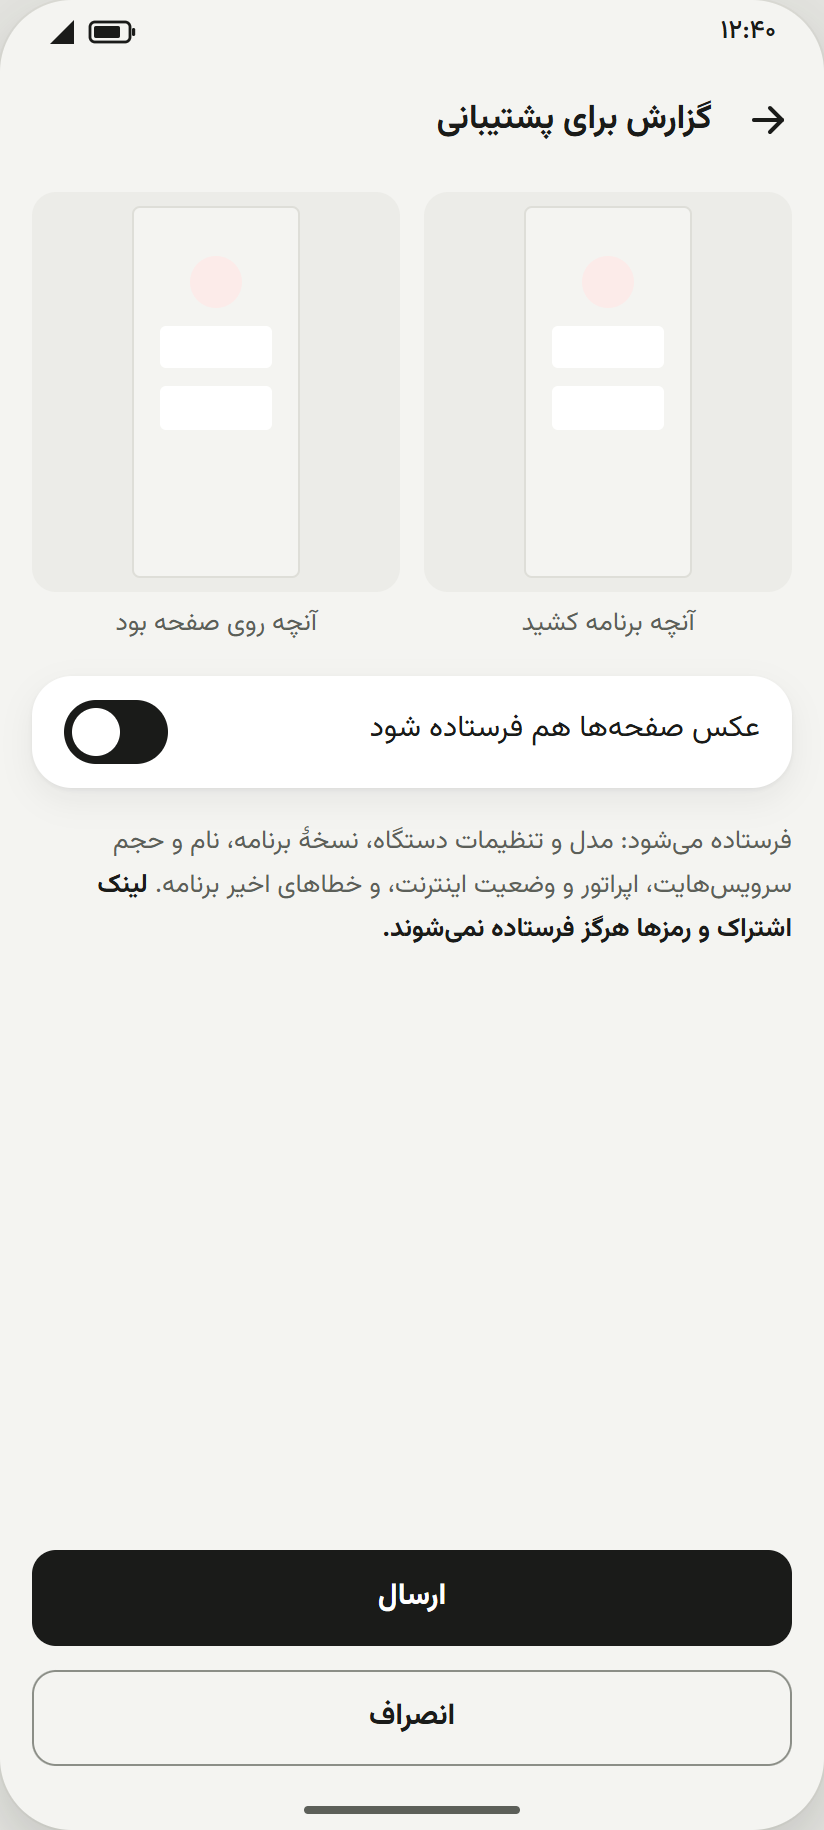
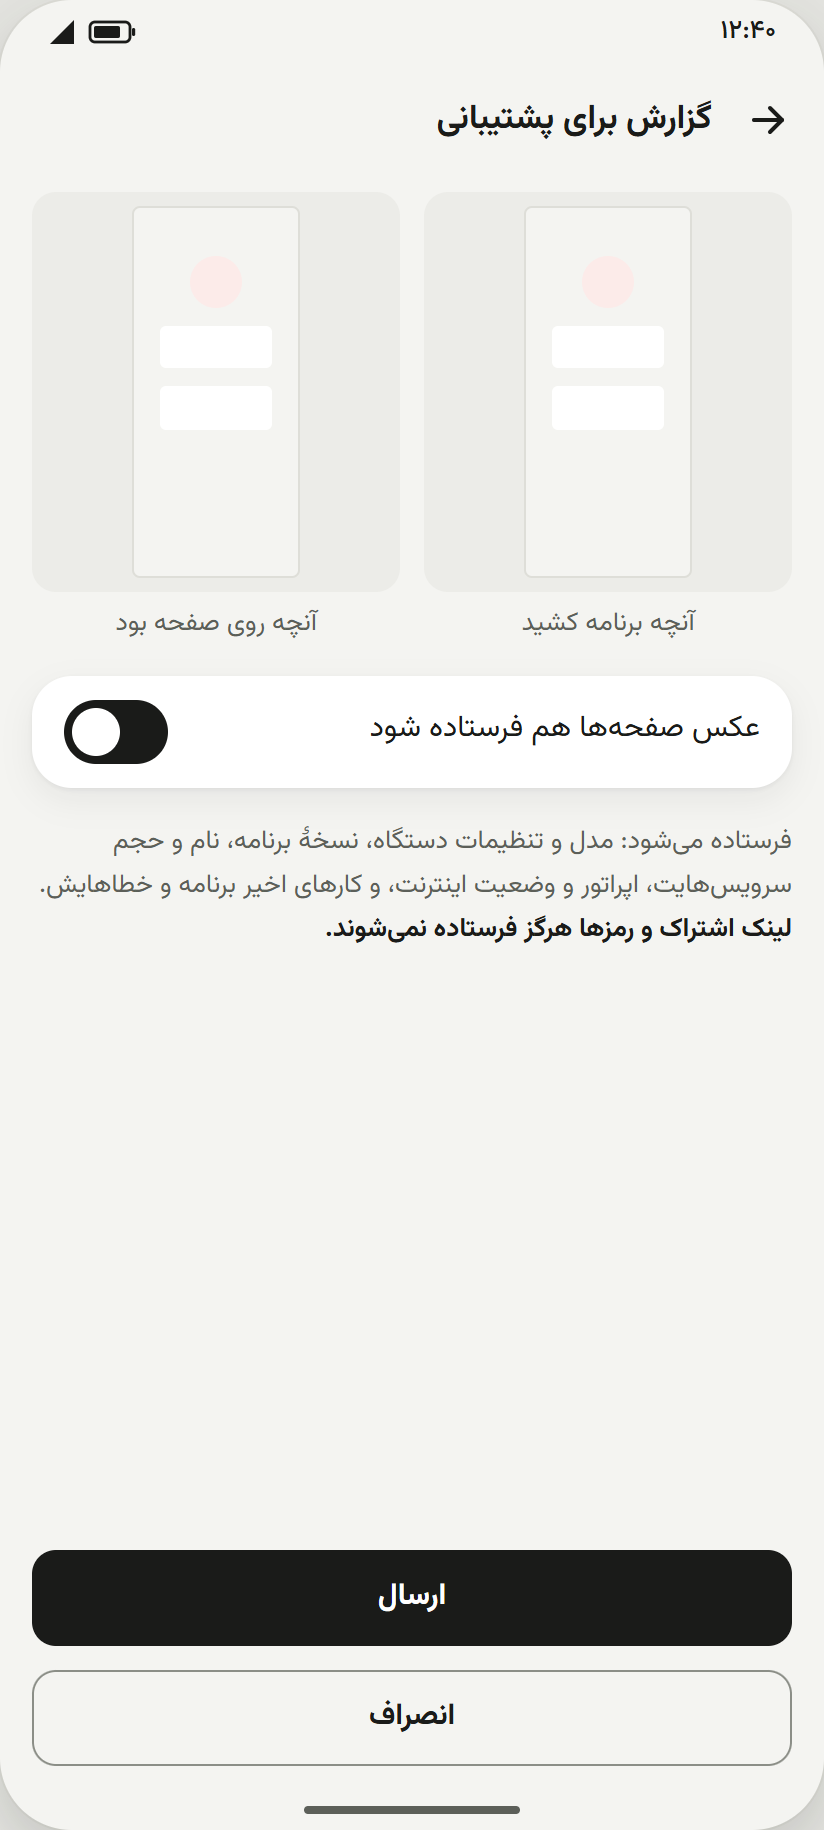
fix(design): a report also sends recent activity, and an unreachable door blames no one
The preview sentence now says the app's recent activity and errors go, since most of the 700 log lines are not errors. The door-unreachable reading drops «the problem is on our side» for a neutral «try again in a few minutes»: when the domestic site fails too, the customer's own line may be the cause. Same text in the arbs, frames and docs/app-diagnostics.md.

Changed region(s): [[0.4248, 0.4984, 0.9709, 0.5295], [0.0607, 0.4672, 0.4248, 0.4984]]

diff --git a/design/mockups/phone-report.html b/design/mockups/phone-report.html
@@ -189,7 +189,7 @@
         <div class="dialog-actions"><button class="btn btn-outline" type="button"><svg class="icon"><use href="#i-report"/></svg>ارسال گزارش</button></div>
       </section>
       <section class="card update check is-danger">
-        <div class="update-row"><svg class="icon"><use href="#i-alert"/></svg><span class="t"><strong>به سرور شیکونت نرسیدیم؛ مشکل از طرف ماست.</strong></span></div>
+        <div class="update-row"><svg class="icon"><use href="#i-alert"/></svg><span class="t"><strong>به سرور شیکونت نرسیدیم؛ چند دقیقهٔ دیگر دوباره امتحان کن.</strong></span></div>
         <div class="dialog-actions"><button class="btn btn-outline" type="button">پشتیبانی</button></div>
       </section>
       <section class="card update check is-danger">
@@ -223,7 +223,7 @@
               <div class="report-image"><div class="report-tile"><span class="mini"><i class="m-ring"></i><i class="m-card"></i><i class="m-card"></i></span></div><span>آنچه روی صفحه بود</span></div>
             </div>
             <div class="card"><button class="row" type="button" role="switch" aria-checked="true"><span class="t"><span>عکس صفحهها هم فرستاده شود</span></span><span class="switch"></span></button></div>
-            <p class="report-note">فرستاده میشود: مدل و تنظیمات دستگاه، نسخهٔ برنامه، نام و حجم سرویسهایت، اپراتور و وضعیت اینترنت، و خطاهای اخیر برنامه. <strong>لینک اشتراک و رمزها هرگز فرستاده نمیشوند.</strong></p>
+            <p class="report-note">فرستاده میشود: مدل و تنظیمات دستگاه، نسخهٔ برنامه، نام و حجم سرویسهایت، اپراتور و وضعیت اینترنت، و کارهای اخیر برنامه و خطاهایش. <strong>لینک اشتراک و رمزها هرگز فرستاده نمیشوند.</strong></p>
           </div>
           <span class="scroll-thumb"></span>
         </div>
@@ -255,7 +255,7 @@
               <div class="report-image"><div class="report-tile"><span class="mini"><i class="m-ring"></i><i class="m-card"></i><i class="m-card"></i></span></div><span>آنچه روی صفحه بود</span></div>
             </div>
             <div class="card"><button class="row" type="button" role="switch" aria-checked="true"><span class="t"><span>عکس صفحهها هم فرستاده شود</span></span><span class="switch"></span></button></div>
-            <p class="report-note">فرستاده میشود: مدل و تنظیمات دستگاه، نسخهٔ برنامه، نام و حجم سرویسهایت، اپراتور و وضعیت اینترنت، و خطاهای اخیر برنامه. <strong>لینک اشتراک و رمزها هرگز فرستاده نمیشوند.</strong></p>
+            <p class="report-note">فرستاده میشود: مدل و تنظیمات دستگاه، نسخهٔ برنامه، نام و حجم سرویسهایت، اپراتور و وضعیت اینترنت، و کارهای اخیر برنامه و خطاهایش. <strong>لینک اشتراک و رمزها هرگز فرستاده نمیشوند.</strong></p>
           </div>
           <span class="scroll-thumb"></span>
         </div>
@@ -285,7 +285,7 @@
               <div class="report-image"><div class="report-tile"><span class="mini"><i class="m-ring"></i><i class="m-card"></i><i class="m-card"></i></span></div><span>What the screen showed</span></div>
             </div>
             <div class="card"><button class="row" type="button" role="switch" aria-checked="true"><span class="t"><span>Send the screen pictures too</span></span><span class="switch"></span></button></div>
-            <p class="report-note">Sent: device model and settings, app version, your services’ names and data, your operator and internet status, and the app’s recent errors. <strong>Your subscription link and passwords are never sent.</strong></p>
+            <p class="report-note">Sent: device model and settings, app version, your services’ names and data, your operator and internet status, and the app’s recent activity and errors. <strong>Your subscription link and passwords are never sent.</strong></p>
           </div>
           <span class="scroll-thumb"></span>
         </div>

diff --git a/design/mockups/tv-report.html b/design/mockups/tv-report.html
@@ -130,7 +130,7 @@
               <div class="report-image"><div class="report-tile"><span class="mini is-tv"><i class="m-ring"></i><i class="m-card"></i><i class="m-card"></i></span></div><span>آنچه برنامه کشید</span></div>
               <div class="report-image"><div class="report-tile"><span class="mini is-tv"><i class="m-ring"></i><i class="m-card"></i><i class="m-card"></i></span></div><span>آنچه روی صفحه بود</span></div>
             </div>
-            <p class="report-note">فرستاده میشود: مدل و تنظیمات دستگاه، نسخهٔ برنامه، نام و حجم سرویسهایت، اپراتور و وضعیت اینترنت، و خطاهای اخیر برنامه. <strong>لینک اشتراک و رمزها هرگز فرستاده نمیشوند.</strong></p>
+            <p class="report-note">فرستاده میشود: مدل و تنظیمات دستگاه، نسخهٔ برنامه، نام و حجم سرویسهایت، اپراتور و وضعیت اینترنت، و کارهای اخیر برنامه و خطاهایش. <strong>لینک اشتراک و رمزها هرگز فرستاده نمیشوند.</strong></p>
           </div>
         </div>
         <div class="report-foot">
@@ -158,7 +158,7 @@
               <div class="report-image"><div class="report-tile"><span class="mini is-tv"><i class="m-ring"></i><i class="m-card"></i><i class="m-card"></i></span><span class="report-off">فرستاده نمیشود</span></div><span>آنچه برنامه کشید</span></div>
               <div class="report-image"><div class="report-tile"><span class="mini is-tv"><i class="m-ring"></i><i class="m-card"></i><i class="m-card"></i></span><span class="report-off">فرستاده نمیشود</span></div><span>آنچه روی صفحه بود</span></div>
             </div>
-            <p class="report-note">فرستاده میشود: مدل و تنظیمات دستگاه، نسخهٔ برنامه، نام و حجم سرویسهایت، اپراتور و وضعیت اینترنت، و خطاهای اخیر برنامه. <strong>لینک اشتراک و رمزها هرگز فرستاده نمیشوند.</strong></p>
+            <p class="report-note">فرستاده میشود: مدل و تنظیمات دستگاه، نسخهٔ برنامه، نام و حجم سرویسهایت، اپراتور و وضعیت اینترنت، و کارهای اخیر برنامه و خطاهایش. <strong>لینک اشتراک و رمزها هرگز فرستاده نمیشوند.</strong></p>
           </div>
         </div>
         <div class="report-foot">

diff --git a/docs/app-diagnostics.md b/docs/app-diagnostics.md
@@ -263,7 +263,7 @@ the screen under the sheet or dialog, taken before it opens. Frames: `design/moc
   row, each half the width less the gap, at most 200 dp tall on a phone and 240 dp (16:9) on TV, with their names
   «آنچه برنامه کشید» and «آنچه روی صفحه بود» under them; then one switch «عکس صفحهها هم فرستاده شود» (on) that drops
   both and marks them «فرستاده نمیشود»; then «فرستاده میشود: مدل و تنظیمات دستگاه، نسخهٔ برنامه، نام و حجم
-  سرویسهایت، اپراتور و وضعیت اینترنت، و خطاهای اخیر برنامه. لینک اشتراک و رمزها هرگز فرستاده نمیشوند.»; then
+  سرویسهایت، اپراتور و وضعیت اینترنت، و کارهای اخیر برنامه و خطاهایش. لینک اشتراک و رمزها هرگز فرستاده نمیشوند.»; then
   [ارسال] and [انصراف]. Phone: the middle scrolls and the two buttons are pinned, full width and stacked, at the
   bottom. TV: no scroll; the switch and the two buttons share the bottom row, three remote stops, [ارسال] focused.
   The sentence names the kinds of data, not every field; nothing outside the table above is sent.
@@ -288,7 +288,7 @@ next to `keepApiDirect` (ids from 7470100), so the answer is the same with the V
 
 Reading, one card with one sentence; it is decided by the door first. While running: «در حال بررسی اینترنت…», no
 button. Door not reached: all three fail → «این دستگاه به اینترنت وصل نیست.» [تنظیمات اینترنت]; otherwise → «به سرور
-شیکونت نرسیدیم؛ مشکل از طرف ماست.» [پشتیبانی]. Door reached: international fails → «اینترنت بینالملل روی این خط قطع
+شیکونت نرسیدیم؛ چند دقیقهٔ دیگر دوباره امتحان کن.» [پشتیبانی]. Door reached: international fails → «اینترنت بینالملل روی این خط قطع
 است. سرورها بیرون از ایراناند.»; every server ping fails → «هیچکدام از سرورها جواب نمیدهند.» [بهروزرسانی سرورها]
 [پشتیبانی]; else → «اینترنت وصل است و سرور شیکونت در دسترس است.». A domestic failure with the door reached changes
 no sentence and goes only into the report. [ارسال گزارش] is on the card exactly when the door was reached (the last
